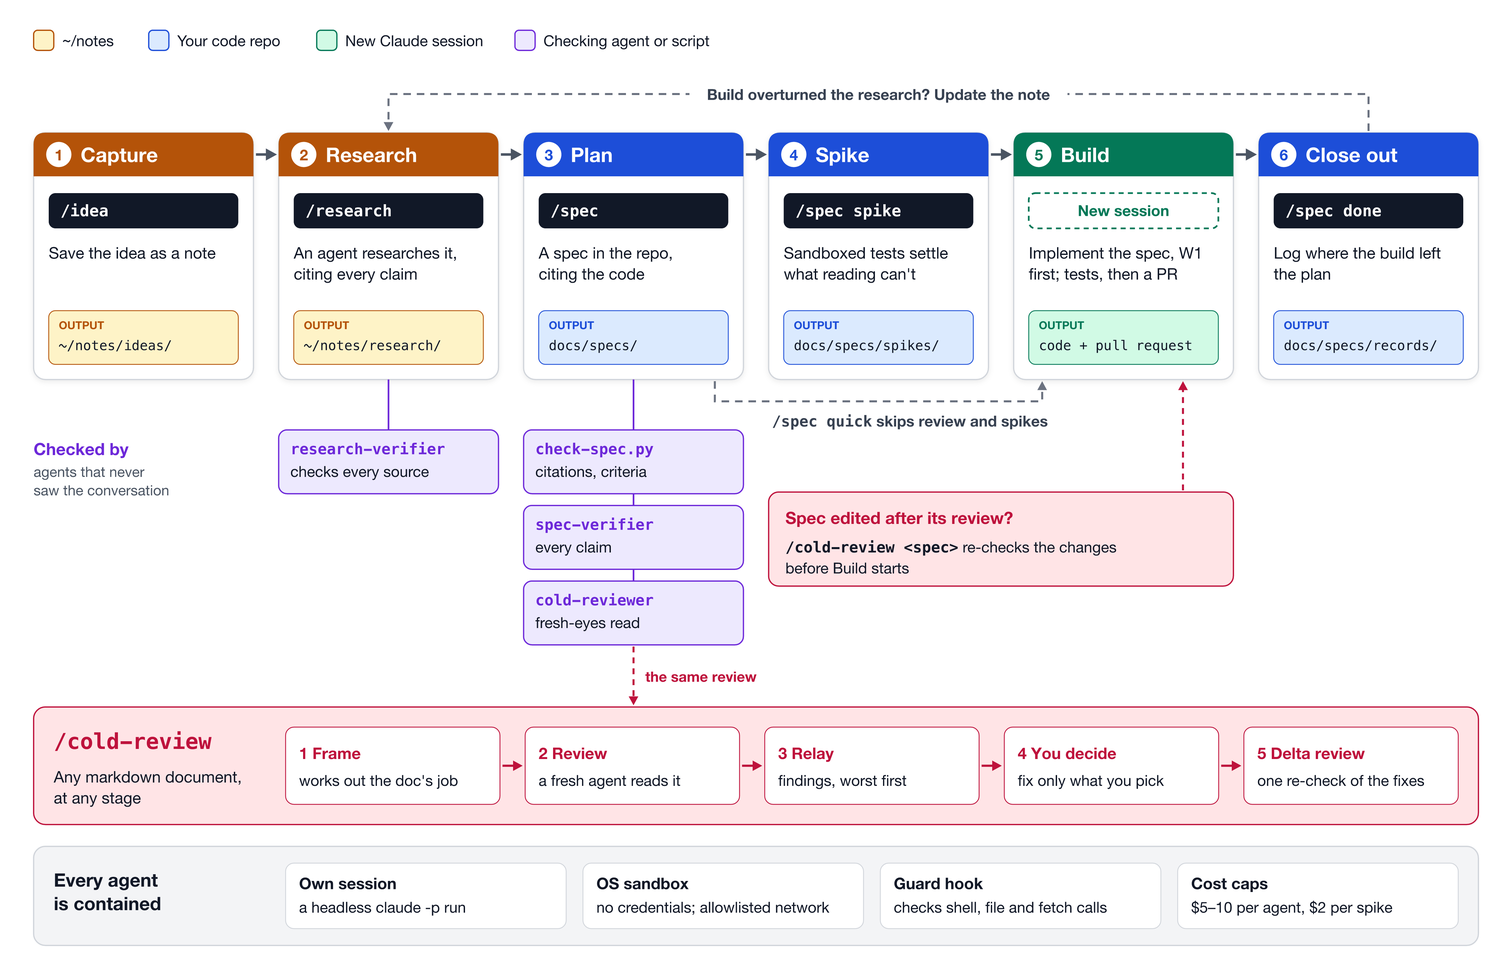
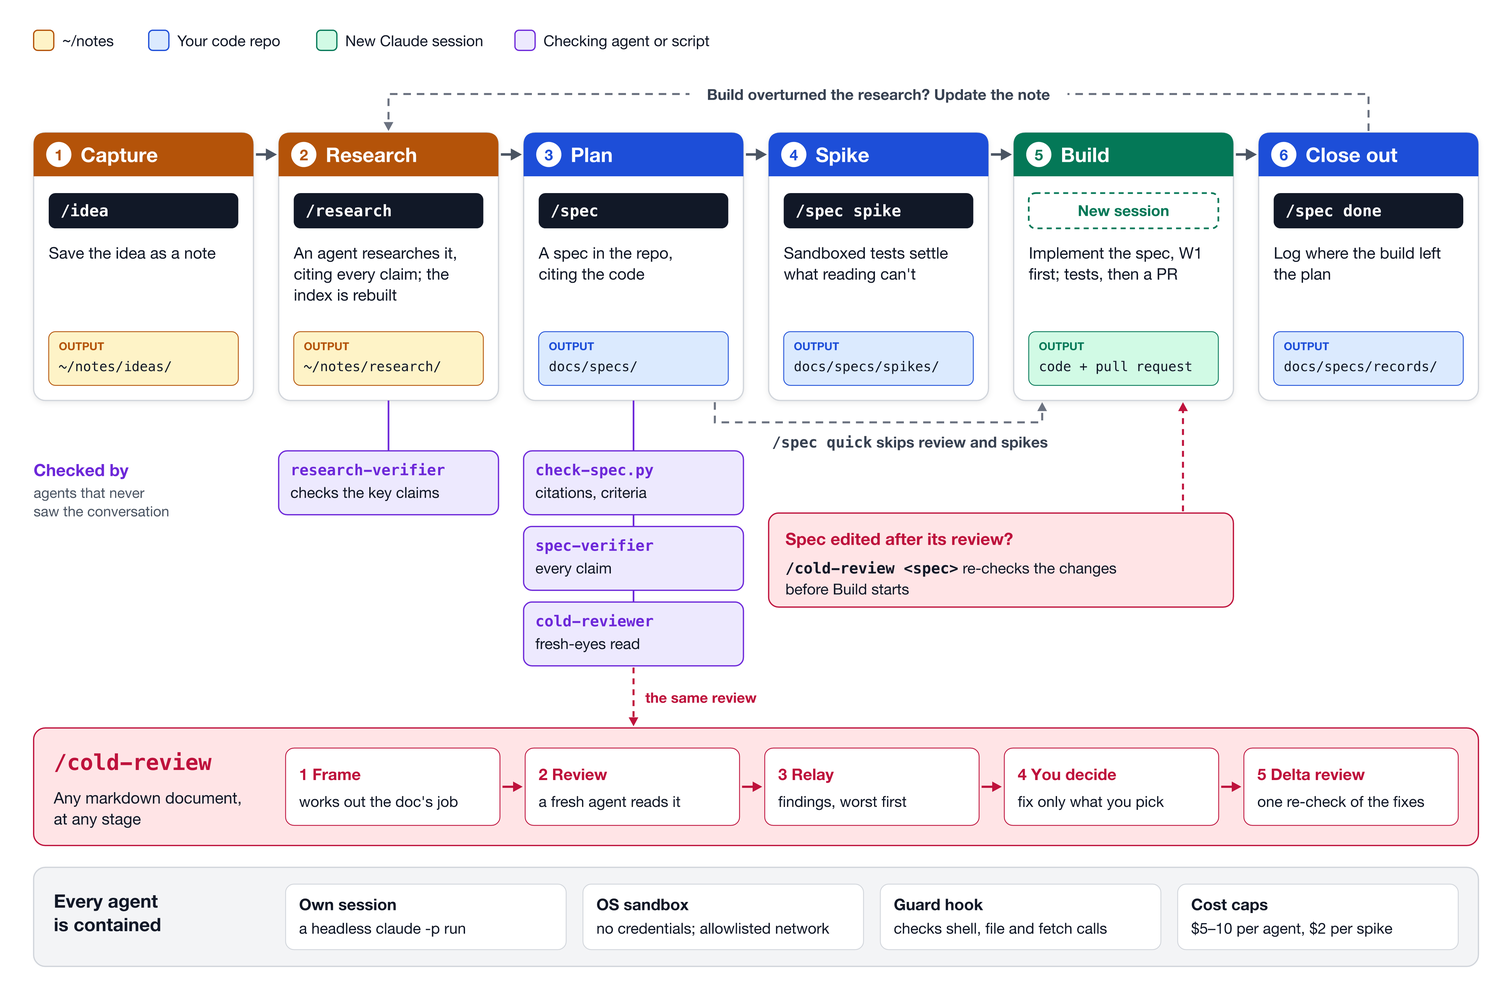
readme: fold in the 2026-09-27 delta review's rows 1-4 and 8, and save the review
The research-ideas eval case's $10 cap, a Topics section for ~/notes'
CLAUDE.md, the worked example's sampled verification, where unfiled notes
go, and the diagram's stage 2 (the index is rebuilt; the verifier checks
the key claims), redrawn. The review is saved in the README's record.

diff --git a/docs/diagram/workflow.py b/docs/diagram/workflow.py
@@ -35,7 +35,7 @@ STAGES = [
         "Research",
         "notes",
         "/research",
-        "An agent researches it, citing every claim",
+        "An agent researches it, citing every claim; the index is rebuilt",
         "~/notes/research/",
     ),
     (3, "Plan", "repo", "/spec", "A spec in the repo, citing the code", "docs/specs/"),
@@ -65,7 +65,7 @@ STAGES = [
     ),
 ]
 CHECKS = {
-    2: [("research-verifier", "checks every source")],
+    2: [("research-verifier", "checks the key claims")],
     3: [
         ("check-spec.py", "citations, criteria"),
         ("spec-verifier", "every claim"),

diff --git a/records/README-record.md b/records/README-record.md
@@ -28,27 +28,54 @@ Neither: 6, 7, 8, 9, 10
 Cold read: no - "Notes live in `~/notes`": nothing says what has to already be in `~/notes`, or that it must be a git repo
 Needs a run: 1, 3, 9, 10
 
+### Delta review, 2026-09-27
+
+Reviewed on 2026-09-27 by cold-reviewer: the changes logged as Not reviewed. Saved unchanged.
+
+| # | Kind | Where | Finding | Affects | Evidence | What would settle it |
+|---|---|---|---|---|---|---|
+| 1 | WRONG | What things cost: "Each case is capped at $5, and the cases run at the same time" | One case has a different cap. The `research-ideas` case sets its own cap of $10 in a `usd.txt` file, and that replaces the $5 default. So the worst case for a full run is $55, not the $50 a reader would work out from the README. This line was part of the 2026-09-27 cost update. | correctness | `tests/agent-evals/cases/research-ideas/usd.txt` = `10`; `tests/agent-evals/run.sh:23` ("usd.txt sets the case's own cost ceiling in place of EVAL_MAX_USD"), `:56`, `:63` | Change it to "capped at $5, or $10 for `research-ideas`" (and fix the same wording in `CLAUDE.md:13`) |
+| 2 | GAP | Set up `~/notes`: "**`CLAUDE.md`**: your rules for notes, such as tags and frontmatter" and "Give both a `topic:` line too" | The new topic feature depends on a Topics section in `~/notes/CLAUDE.md`, which the README never asks for. The researcher is told to pick its topic from that section, using the listing command it gives. The warning from `check-note.py` also sends you there. A reader who follows the README writes a `CLAUDE.md` with no Topics section and no listing command. The researcher is then left to invent topics without any list to reuse from. | requirement: "This repo doesn't include its files either, so you write your own:" (the list is meant to say what `~/notes` must hold) | `agents/researcher.md:62` ("`topic` (one `area` or `area/sub-area` per `~/notes/CLAUDE.md`'s Topics: list the ones in use with its command …)"); `skills/research/scripts/check-note.py:241-244` ("~/notes/CLAUDE.md, Topics, lists them"); the author's own `~/notes/CLAUDE.md:65-69` has the section and a `grep … \| uniq -c` command | Add a Topics section and its listing command to the `CLAUDE.md` bullet |
+| 3 | WRONG | A worked example, 2: "The verifier confirmed the claims the recommendation rested on." | The claim the recommendation rests on most was not confirmed by the verifier: that a nested outline is already Markmap's input, so Markmap draws it as a mind map (source [12]). The note's Verification table checked 14 of its 37 cited claims and has no row for [12]. The spec-verifier marked [12] unverified. Only the later spike confirmed it. So the README gives the verifier more credit than the record does, in an example meant to show how the checking works. | requirement: "fresh agents check both the research and the spec" | `~/notes/research/2026-09-27-research-notes-mindmap-index.md:120` ("14 of 14 claims confirmed, a sample of the note's 37 cited claims"; no [12] row); `docs/specs/records/2026-09-27-notes-mindmap-index-record.md:7` ("claims cited to research [12], [18] and [20] marked unverified"); `docs/specs/spikes/2026-09-27-notes-mindmap-index-results.md:69` ("confirms the claim the research didn't verify (its source [12])") | Say that the verifier checked a sample (14 of 37 claims), and that the spike confirmed the Markmap claim |
+| 4 | STALE | The workflow at a glance (diagram) against stage 2: "A `research-verifier` agent then checks the claims the note's conclusions depend on … Last, `/research` rebuilds `~/notes/index.md`" | The diagram's stage 2 no longer matches the text. The diagram says the research-verifier "checks every source", while the text says it checks only the claims the conclusions depend on (a sample). The diagram also doesn't show the index rebuild that stage 2 now includes. The repo's rules say the diagram and the list must be changed together. | requirement: "The diagram's six stages … match the numbered list under "From idea to merged change" in the README. Change one, change the other." (`CLAUDE.md:43-44`) | `docs/diagram/workflow.py:37-40` (stage 2 text), `:68` (`("research-verifier", "checks every source")`); `skills/research/SKILL.md:16` ("checks the claims the recommendation rests on") | Change the diagram's verifier label (e.g. "checks the key claims"), add the index to stage 2's output, then redraw |
+| 5 | GAP | A worked example, 4: "**Spike.** A prototype over the real notes showed…" against stage 4: "Each spike runs as a separate Claude session in a scratch copy of the code, inside a sandbox and under a cost cap" | The example's spike did not work the way stage 4 describes. It was run by hand in the `/spec` session, with no sandbox, because the spike sandbox blocks reads of `~/notes`. The README says neither of these things. A reader learns neither that the example broke the pattern nor that a spike needing `~/notes` can't run sandboxed. | neither: nothing breaks, and the record states the route. But it is the one example given of stage 4. | `docs/specs/records/2026-09-27-notes-mindmap-index-record.md:60` ("run by hand … since the spike sandbox denies reads of `~/notes` (… `denyRead`) … Box: this session, no sandbox"); `docs/specs/spikes/…-results.md:5` | Add "run by hand, outside the sandbox, which can't read `~/notes`" to step 4 |
+| 6 | GAP | View the notes as a mind map, 2: "`npx markmap-cli --offline -o /tmp/notes-map.html ~/notes/index.md`" | This needs Node.js and npm, which Requirements doesn't list. Without `-y`, `npx` also stops to ask before it installs the tool. | neither: this is one of three optional viewers; the other two don't need Node | Requirements lists only Claude Code, macOS, `python3`/`uv` and `~/notes`; the spike used `npx -y markmap-cli@latest … --no-open` (`docs/specs/spikes/…-results.md:20`) | Add "needs Node.js" to option 2 |
+| 7 | WRONG | View the notes as a mind map, 2: "Links to notes may not open from the browser." | "May not" is too weak: the links will not work. The index's links are relative (`research/x.md`), and the page is saved in `/tmp`. So every link points to `/tmp/research/…`, where nothing exists. | neither: the README already warns about it; only how sure it sounds is wrong | `skills/research/scripts/build-index.py:47,60` (relative `rel` paths); spike: "31 research/ and 40 ideas/ links rendered as `<a href>`" (`results.md:44`) | Say "links to notes won't open", or save the page inside `~/notes` and git-ignore it |
+| 8 | COLD-READ | View the notes as a mind map: "each idea or decision note sits under the research note it names" and "for example after `/idea` adds a note" | A new idea note from `/idea` names no research note yet, so it can't sit under one. The script puts such notes, and research notes with no usable topic, under a `## Unfiled` heading. The README never mentions that heading, so a reader who rebuilds by hand can't find the idea they just added. | neither: nothing is lost; it shows up under Unfiled | `build-index.py:9-10`, `:78-81`, `:109` | Add "notes with no topic or no research note go under Unfiled" |
+| 9 | ASSUMPTION | A worked example, 3: "a check that would pass without testing anything, because it called a script by a name the shell couldn't find" | The review didn't find this for certain. It said the check fails "unless it is on PATH" (PATH is the list of folders the shell searches for commands) and listed the point as needing a run. The README states as fact something the review itself left open. | neither: the finding was fixed either way | `docs/specs/records/…-record.md:19` ("Unless it is on PATH…"), `:30` ("Needs a run: … 2 (whether `check-note.py` happens to be on PATH)") | Say "a name the shell might not find" |
+| 10 | WRONG | A worked example, 5: "One commit per work item, W1 first" | W4 took two commits: the script, then a fix for its topic count. | neither: the second commit is the "counting bug" the same step goes on to mention | `git log`: `6e59bce` and `3201e9a`, both W4 (`record.md:68,70`) | "One commit per work item, plus a fix" |
+
+Counts: 10 findings - 1 correctness, 3 requirement, 6 neither
+Neither: 5, 6, 7, 8, 9, 10
+Cold read: no - "each idea or decision note sits under the research note it names" next to "after `/idea` adds a note": I couldn't tell where a new idea with no research note goes.
+Needs a run: none
+
 ## Changes since the review
 
-- Not reviewed: Requirements says every agent and spike needs `sandbox.*` settings via `--settings` (2.1.219 or later, last run on 2.1.282), and that the macOS sandbox shapes all of them, from README review row 1, on 2026-09-25.
-- Not reviewed: Layout names what runs outside the sandbox (`gh`, the three research scripts, the Read, WebFetch and WebSearch tools, the researcher's MCP servers), from README review row 2, on 2026-09-25.
-- Not reviewed: a new section, Set up ~/notes, lists what `~/notes` must hold, from README review row 3, on 2026-09-25.
-- Not reviewed: step 3 says `/spec` needs a git repo under `~/code`, from README review row 4, on 2026-09-25.
-- Not reviewed: `/cold-review`'s description says the skill edits for picked findings and saves reviews to a record, from README review row 5, on 2026-09-25.
-- Not reviewed: the README was restructured for readability: a plain summary and a short glossary open it; step 3 of the flow is split into checks and the record; `/cold-review` has its own section; Requirements, Install and Set up ~/notes come before Layout; the sandbox and guard detail moved out of Layout into a new section, How the agents are contained, which now names every tool the guard covers (adding WebFetch and Edit, from README review row 8's evidence); costs are gathered into What things cost, on 2026-09-25.
-- Not reviewed: How the agents are contained says no hook checks WebSearch or the researcher's MCP tools, and names which agents are granted them, from the README delta review (2026-09-25) row 1, on 2026-09-25.
-- Not reviewed: What things cost gives the agent evaluations' latest full run ($4.02, ten cases) and their $5-per-case cap, from the README delta review (2026-09-25) row 2, on 2026-09-25.
-- Not reviewed: Requirements drops the unsourced 2.1.187 figure and says no older version has been run; 2.1.282 checked with `claude --version`, from the README delta review (2026-09-25) row 3, on 2026-09-25.
-- Not reviewed: Set up ~/notes says `/spec` needs `~/notes` and `/cold-review` doesn't, and that a missing `--add-dir` directory doesn't stop a run (checked on 2.1.282), from the README delta review (2026-09-25) row 4, on 2026-09-25.
-- Not reviewed: Layout adds `hooks/git-read.py` and lists every test file, from the README delta review (2026-09-25) row 5, on 2026-09-25.
-- Not reviewed: What things cost and Checks add the skill evaluations, their cost and command, from the README delta review (2026-09-25) row 6, on 2026-09-25.
-- Not reviewed: a workflow diagram, `docs/workflow.png` (source `docs/workflow.svg`), added after the opening paragraphs, with alt text describing it, on 2026-09-25.
-- Not reviewed: the workflow diagram is now drawn by `docs/diagram/workflow.py` in a wide and a narrow layout, each light and dark; the README shows the narrow one, switching to dark with the viewer's theme, and links the full-size ones; arrowheads are drawn along their lines, on 2026-09-25.
-- Not reviewed: the diagram loses its title; it now sits under a new heading, The workflow at a glance, after the glossary, with a short paragraph saying how to read it, on 2026-09-25.
-- Not reviewed: the heading now sits directly above the diagram, and the paragraph on reading it becomes a short list below it, on 2026-09-25.
-- Not reviewed: rewritten for readability: terms defined before use, Spec, Agent, Verifier, Sandbox and guard added to the terms, the step list renamed to match the diagram's six stages, a clone step in Install, what each ~/notes file is for, jargon removed, long sentences split, links added, and docs/ and records/ added to Layout, on 2026-09-25.
-- Not reviewed: Layout lists `scripts/build-index.py`, which rebuilds the notes index in `~/notes`, and says `mdcheck.py` is shared with it too; the fast tests' list names `build-index.py`, on 2026-09-27.
-- Not reviewed: Layout says `/research` runs `build-index.py` before its commit, on 2026-09-27.
-- Not reviewed: stage 2 says `/research` rebuilds `~/notes/index.md`; Set up `~/notes` asks for a `topic:` line in the research templates; a new section, View the notes as a mind map, says what the index is and gives three ways to open it, on 2026-09-27.
-- Not reviewed: readability fixes: Skill and Hook added to the terms, frontmatter and turn explained where first used, stage 3's record and status paragraph split and the status names spelled out, and the agent-eval cost updated to 2026-09-27's runs, on 2026-09-27.
-- Not reviewed: second readability pass: stage 2 names `/research` as what rebuilds the index; two long lines rewrapped; Set up `~/notes` explains `decisions/`; Layout is a table, naming the two checkers; a worked example of the mind-map spec through all six stages replaces the pointer to the spike-phase spec, on 2026-09-27.
+- Delta-reviewed on 2026-09-27: Requirements says every agent and spike needs `sandbox.*` settings via `--settings` (2.1.219 or later, last run on 2.1.282), and that the macOS sandbox shapes all of them, from README review row 1, on 2026-09-25.
+- Delta-reviewed on 2026-09-27: Layout names what runs outside the sandbox (`gh`, the three research scripts, the Read, WebFetch and WebSearch tools, the researcher's MCP servers), from README review row 2, on 2026-09-25.
+- Delta-reviewed on 2026-09-27: a new section, Set up ~/notes, lists what `~/notes` must hold, from README review row 3, on 2026-09-25.
+- Delta-reviewed on 2026-09-27: step 3 says `/spec` needs a git repo under `~/code`, from README review row 4, on 2026-09-25.
+- Delta-reviewed on 2026-09-27: `/cold-review`'s description says the skill edits for picked findings and saves reviews to a record, from README review row 5, on 2026-09-25.
+- Delta-reviewed on 2026-09-27: the README was restructured for readability: a plain summary and a short glossary open it; step 3 of the flow is split into checks and the record; `/cold-review` has its own section; Requirements, Install and Set up ~/notes come before Layout; the sandbox and guard detail moved out of Layout into a new section, How the agents are contained, which now names every tool the guard covers (adding WebFetch and Edit, from README review row 8's evidence); costs are gathered into What things cost, on 2026-09-25.
+- Delta-reviewed on 2026-09-27: How the agents are contained says no hook checks WebSearch or the researcher's MCP tools, and names which agents are granted them, from the README delta review (2026-09-25) row 1, on 2026-09-25.
+- Delta-reviewed on 2026-09-27: What things cost gives the agent evaluations' latest full run ($4.02, ten cases) and their $5-per-case cap, from the README delta review (2026-09-25) row 2, on 2026-09-25.
+- Delta-reviewed on 2026-09-27: Requirements drops the unsourced 2.1.187 figure and says no older version has been run; 2.1.282 checked with `claude --version`, from the README delta review (2026-09-25) row 3, on 2026-09-25.
+- Delta-reviewed on 2026-09-27: Set up ~/notes says `/spec` needs `~/notes` and `/cold-review` doesn't, and that a missing `--add-dir` directory doesn't stop a run (checked on 2.1.282), from the README delta review (2026-09-25) row 4, on 2026-09-25.
+- Delta-reviewed on 2026-09-27: Layout adds `hooks/git-read.py` and lists every test file, from the README delta review (2026-09-25) row 5, on 2026-09-25.
+- Delta-reviewed on 2026-09-27: What things cost and Checks add the skill evaluations, their cost and command, from the README delta review (2026-09-25) row 6, on 2026-09-25.
+- Delta-reviewed on 2026-09-27: a workflow diagram, `docs/workflow.png` (source `docs/workflow.svg`), added after the opening paragraphs, with alt text describing it, on 2026-09-25.
+- Delta-reviewed on 2026-09-27: the workflow diagram is now drawn by `docs/diagram/workflow.py` in a wide and a narrow layout, each light and dark; the README shows the narrow one, switching to dark with the viewer's theme, and links the full-size ones; arrowheads are drawn along their lines, on 2026-09-25.
+- Delta-reviewed on 2026-09-27: the diagram loses its title; it now sits under a new heading, The workflow at a glance, after the glossary, with a short paragraph saying how to read it, on 2026-09-25.
+- Delta-reviewed on 2026-09-27: the heading now sits directly above the diagram, and the paragraph on reading it becomes a short list below it, on 2026-09-25.
+- Delta-reviewed on 2026-09-27: rewritten for readability: terms defined before use, Spec, Agent, Verifier, Sandbox and guard added to the terms, the step list renamed to match the diagram's six stages, a clone step in Install, what each ~/notes file is for, jargon removed, long sentences split, links added, and docs/ and records/ added to Layout, on 2026-09-25.
+- Delta-reviewed on 2026-09-27: Layout lists `scripts/build-index.py`, which rebuilds the notes index in `~/notes`, and says `mdcheck.py` is shared with it too; the fast tests' list names `build-index.py`, on 2026-09-27.
+- Delta-reviewed on 2026-09-27: Layout says `/research` runs `build-index.py` before its commit, on 2026-09-27.
+- Delta-reviewed on 2026-09-27: stage 2 says `/research` rebuilds `~/notes/index.md`; Set up `~/notes` asks for a `topic:` line in the research templates; a new section, View the notes as a mind map, says what the index is and gives three ways to open it, on 2026-09-27.
+- Delta-reviewed on 2026-09-27: readability fixes: Skill and Hook added to the terms, frontmatter and turn explained where first used, stage 3's record and status paragraph split and the status names spelled out, and the agent-eval cost updated to 2026-09-27's runs, on 2026-09-27.
+- Delta-reviewed on 2026-09-27: second readability pass: stage 2 names `/research` as what rebuilds the index; two long lines rewrapped; Set up `~/notes` explains `decisions/`; Layout is a table, naming the two checkers; a worked example of the mind-map spec through all six stages replaces the pointer to the spike-phase spec, on 2026-09-27.
+- Not reviewed: What things cost says the `research-ideas` eval case is capped at $10, not $5 (also in `CLAUDE.md`), from the README delta review (2026-09-27) row 1, on 2026-09-27.
+- Not reviewed: Set up `~/notes` asks for a Topics section with a listing command in `~/notes/CLAUDE.md`, from the README delta review (2026-09-27) row 2, on 2026-09-27.
+- Not reviewed: the worked example's Research step says the verifier checked a sample, 14 of 37 claims, and that the spike confirmed the Markmap claim, from the README delta review (2026-09-27) row 3, on 2026-09-27.
+- Not reviewed: the diagram's stage 2 says the index is rebuilt and its research-verifier "checks the key claims", redrawn, from the README delta review (2026-09-27) row 4, on 2026-09-27.
+- Not reviewed: View the notes as a mind map says notes with no topic or no research note go under Unfiled, from the README delta review (2026-09-27) row 8, on 2026-09-27.

diff --git a/README.md b/README.md
@@ -102,7 +102,8 @@ The [mind-map index](#view-the-notes-as-a-mind-map) went through every stage on 
 
 1. **Capture.** No idea note: the question went straight to `/research`.
 2. **Research.** The note compared four ways to map the notes and recommended a generated Markmap
-   outline. The verifier confirmed the claims the recommendation rested on.
+   outline. The verifier checked a sample of its claims, 14 of 37, and confirmed them all. The
+   claim that Markmap draws an outline as a mind map wasn't in the sample; the spike confirmed it.
 3. **Plan.** [The spec](docs/specs/2026-09-27-notes-mindmap-index.md) has seven work items. The
    spec-verifier found that one expected 37 idea notes when there were 40. The cold review found
    eight problems, such as a check that would pass without testing anything, because it called a
@@ -172,7 +173,10 @@ The skills keep notes in `~/notes`, and this repo doesn't create it. It has to b
 because the skills commit to it. This repo doesn't include its files either, so you write your own:
 
 - **`CLAUDE.md`**: your rules for notes, such as tags and frontmatter (the block of settings
-  between `---` lines at the top of each note). The `researcher` agent reads it first.
+  between `---` lines at the top of each note). The `researcher` agent reads it first. Give it a
+  Topics section with a command that lists the topics in use, such as
+  `grep -h '^topic:' ~/notes/research/*.md | sort | uniq -c`: the researcher picks a note's topic
+  from that list, and `check-note.py` points there when a topic is new.
 - **`templates/idea.md`**: the layout `/idea` starts each note from.
 - **`decisions/`**, optional: notes you write by hand to record a choice the research left open.
   `/spec` follows an accepted decision over the research's recommendation.
@@ -193,9 +197,10 @@ commits the links it adds. Only `/cold-review` works without it.
 
 Every research note has a `topic`, such as `kubernetes` or `claude-code/research-skill`: an area,
 and optionally a sub-area under it. At the end of each run, `/research` rebuilds `~/notes/index.md`
-from these topics. It's a nested outline: topics are headings, research notes are links under
-them, and each idea or decision note sits under the research note it names. A mind map draws that
-outline as a tree of bubbles branching out from the middle.
+from these topics. It's a nested outline: topics are headings, research notes are links under them,
+and each idea or decision note sits under the research note it names. A note that has no topic, or
+names no research note (a new `/idea`, say), goes under a heading called Unfiled. A mind map draws
+that outline as a tree of bubbles branching out from the middle.
 
 There are three ways to view it, easiest first:
 
@@ -268,8 +273,9 @@ Spikes are contained differently. They don't run under the guard; their own sand
 - **Each spike** is capped at $2 and 60 turns. Assume a spike that fetches anything from the web
   costs close to the cap.
 - **The agent evaluations** (see [Checks](#checks)) spend real money too. Three full runs of
-  their ten cases on 2026-09-27 cost between $3.70 and $4.46. Each case is capped at $5, and the
-  cases run at the same time, so a run that goes wrong can cost far more.
+  their ten cases on 2026-09-27 cost between $3.70 and $4.46. Each case is capped at $5 (the
+  `research-ideas` case at $10), and the cases run at the same time, so a run that goes wrong can
+  cost far more.
 - **The skill evaluations** cost about $0.30 each, capped at $3 each.
 
 A cap stops a run only after the turn that crosses it, so a run can go over by up to one turn. A

diff --git a/CLAUDE.md b/CLAUDE.md
@@ -10,9 +10,9 @@ skill you're editing to be the one you're running.
   `build-index.py`, `review-state.py`, `prepare-spike.sh` and `run-agent.sh`.
 - `python3 tests/replay_guard.py` — the guard against real recorded commands and file reads.
 - After changing an agent or skill file, run `tests/agent-evals/run.sh` by hand. A full run cost
-  $3.70 to $4.46 on 2026-09-27 and each case is capped at $5, so it isn't automatic. Add a dated section to
-  `tests/agent-evals/BASELINE.md` with every case's result and cost, including the cases you didn't
-  expect to change.
+  $3.70 to $4.46 on 2026-09-27 and each case is capped at $5 (`research-ideas` at $10), so it
+  isn't automatic. Add a dated section to `tests/agent-evals/BASELINE.md` with every case's result
+  and cost, including the cases you didn't expect to change.
 - After changing a skill's steps, run `tests/skill-evals/run.sh` by hand too (about $0.30 a case,
   capped at $3), and record its results in the same `BASELINE.md` section.
 - A change to `skills/spec/` or `agents/spec-*` usually needs `check-spec.py` run over
